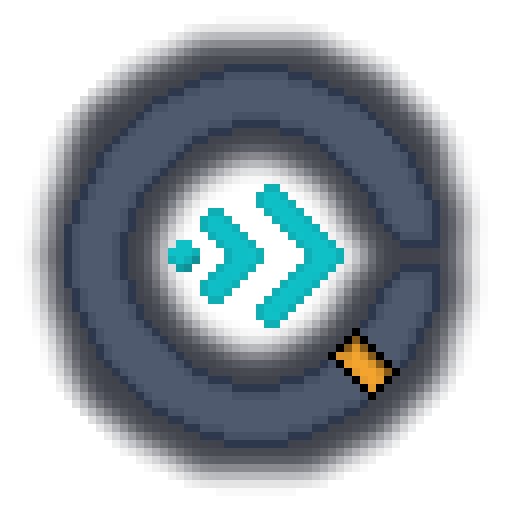
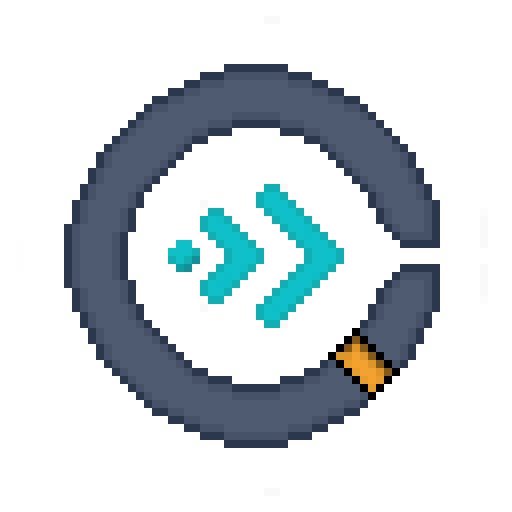
Release Intro Skip v0.4.5

diff --git a/docs/PRESENTATION.md b/docs/PRESENTATION.md
@@ -62,7 +62,7 @@ If automatic Load Anyway is enabled, Intro Skip first copies the latest career s
 
 COMPATIBILITY
 
-Intro Skip 0.4.4 is built for Teamfight Manager 2 0.5.2.
+Intro Skip 0.4.5 is built for Teamfight Manager 2 0.5.2.
 
 RECOVERY
 
@@ -77,17 +77,19 @@ modifications to covered files must remain available under the same license.
 The original logo, banner, and thumbnail artwork are All Rights Reserved.
 Forks must use their own name and artwork.
 
-## GitHub v0.4.4 release
+## GitHub v0.4.5 release
 
 **Release title**
 
-Intro Skip v0.4.4 — TFM2 0.5.2 Compatibility
+Intro Skip v0.4.5 — Public Release Polish
 
 **Release notes**
 
 Intro Skip provides safe, configurable startup automation for Teamfight Manager 2 0.5.2.
 
-Version 0.4.4 rebuilds the native mod for TFM2 0.5.2 and fixes the Mods-screen settings card sizing while retaining configurable backup retention and manual recovery imports.
+Version 0.4.5 adds the creator-provided pixel-art thumbnail and standardized
+public documentation and licensing. Runtime behavior remains unchanged from
+0.4.4.
 
 Highlights:
 
@@ -101,7 +103,7 @@ Highlights:
 
 Only disclaimer skipping is enabled by default. Automatic Continue and Load Anyway remain opt-in.
 
-Install `intro-skip-v0.4.4.zip` from the assets below. Do not use GitHub's automatic Source code archives for installation.
+Install `intro-skip-v0.4.5.zip` from the assets below. Do not use GitHub's automatic Source code archives for installation.
 
 ## Launch post
 

diff --git a/CHANGELOG.md b/CHANGELOG.md
@@ -6,11 +6,15 @@ The project uses [Semantic Versioning](https://semver.org/) for mod releases.
 
 ## [Unreleased]
 
+## [0.4.5] - 2026-07-28
+
 ### Changed
 
 - Standardized the public documentation and contribution guidance across the MadManPetr1 TFM2 mod collection.
 - Relicensed new project versions under MPL-2.0 so distributed changes to covered files remain shareable.
-- Reserved the original project branding and artwork from the source-code license.
+- Clarified that the original project artwork remains outside the source-code
+  license.
+- Updated the pixel-art thumbnail with the creator-provided revision.
 
 ## [0.4.4] - 2026-07-28
 
@@ -67,7 +71,8 @@ The project uses [Semantic Versioning](https://semver.org/) for mod releases.
 - Automatic Load Anyway is blocked unless the latest save has been copied and byte-verified.
 - Recovery import always creates a separate save and remains a manual action.
 
-[Unreleased]: https://github.com/MadManPetr1/tfm2-intro-skip/compare/v0.4.4...HEAD
+[Unreleased]: https://github.com/MadManPetr1/tfm2-intro-skip/compare/v0.4.5...HEAD
+[0.4.5]: https://github.com/MadManPetr1/tfm2-intro-skip/compare/v0.4.4...v0.4.5
 [0.4.4]: https://github.com/MadManPetr1/tfm2-intro-skip/compare/v0.4.3...v0.4.4
 [0.4.3]: https://github.com/MadManPetr1/tfm2-intro-skip/compare/v0.4.2...v0.4.3
 [0.4.2]: https://github.com/MadManPetr1/tfm2-intro-skip/compare/v0.4.1...v0.4.2

diff --git a/README.md b/README.md
@@ -11,7 +11,7 @@ Safe, configurable startup automation for **Teamfight Manager 2**.
 </div>
 
 > [!IMPORTANT]
-> Version **0.4.4** is built for Teamfight Manager 2 **0.5.2**.
+> Version **0.4.5** is built for Teamfight Manager 2 **0.5.2**.
 
 ## Features
 
@@ -124,7 +124,7 @@ To validate and create a player-ready release archive:
 .\scripts\package_release.ps1 -SdkDir "C:\path\to\Teamfight Manager2\mod-sdk"
 ```
 
-The archive is written to `builds\intro-skip-v0.4.4.zip`.
+The archive is written to `builds\intro-skip-v0.4.5.zip`.
 
 ## Project layout
 
@@ -134,6 +134,7 @@ The archive is written to `builds\intro-skip-v0.4.4.zip`.
 - `mod.override_info` — asset remapping
 - `settings.json` — source reference for the safe defaults; player settings are stored in AppData
 - `thumbnail.png` — 512×512 in-game/Workshop thumbnail
+- `assets/thumbnail-master.png` — original 128×128 pixel-art thumbnail
 - `assets/logo-1024.png` — official pixel-art logo master
 - `assets/logo-{512,256,128,64,32}.png` — ready-to-use logo exports
 - `assets/banner.png` — 1280×640 GitHub social preview
